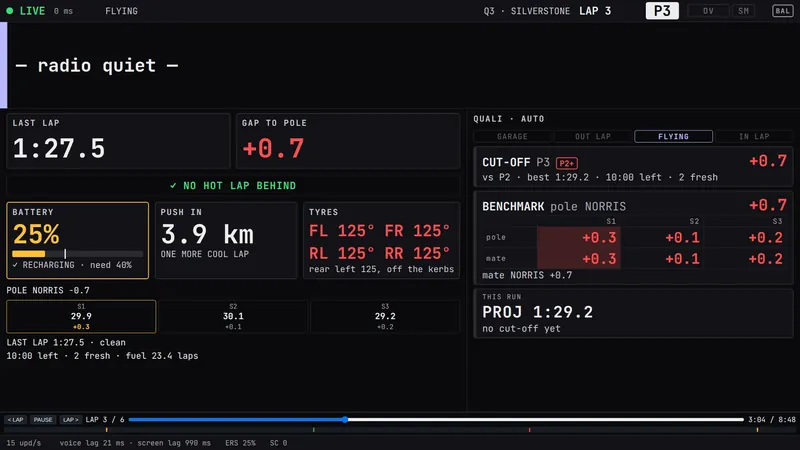
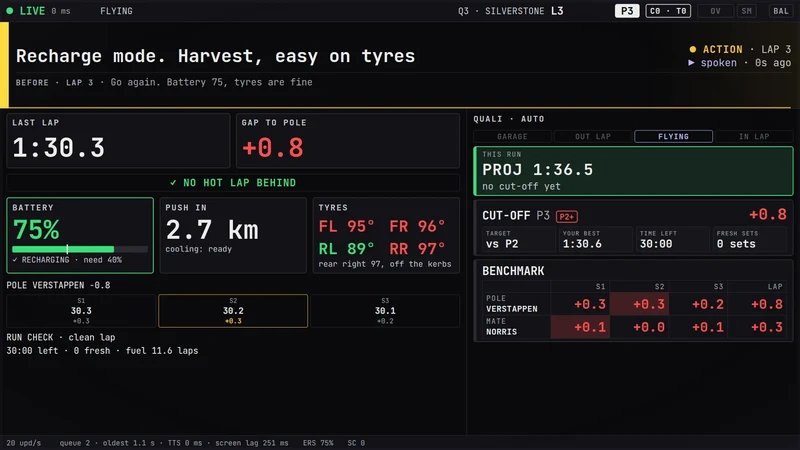
docs: update guide, design notes and gallery for dashboard v2 (#142)
* docs: update guide, design notes and gallery for dashboard v2

* docs: drop v1 pit-exit and final-lap gallery shots

diff --git a/docs/index.html b/docs/index.html
@@ -382,15 +382,13 @@ function overview() {
   ];
   const screens = [
     ["Qualifying", [
-      ["quali-pit-exit", "Pit exit", "The pit board says the track is clear and shows the next run plan."],
       ["quali-out-lap", "Out-lap", "The banner says the tyres are in. The cut-off and pole gaps fill in after the first lap."],
-      ["quali-flying", "Flying lap", "The right column shows the cut-off, the sector gaps to pole and the projected lap."],
+      ["quali-flying", "Flying lap", "The right column shows the cut-off, the projected lap and a benchmark table of sector and lap gaps to pole and teammate."],
       ["quali-cool-lap", "Cool lap", "Last lap time and gap to pole, with battery and tyre temperatures before the next push."]
     ]],
     ["Race", [
       ["race-duel", "Battle", "The battle card lists the cars ahead and behind, each with its state, gap and gap rail."],
-      ["race-box-call", "Box call", "The safety car is active. The right zone shows the box call and pit window."],
-      ["race-final-lap", "Final lap", "The final-lap call names the car behind and the gap."]
+      ["race-box-call", "Box call", "The safety car is active. The right zone shows the box call and pit window."]
     ]],
     ["On the phone", [
       ["phone-race", "Phone race page", "The race page on a phone shows the call, tyres, fuel and strategy, plus the button that arms phone radio."],

diff --git a/docs/15-dashboard-design.md b/docs/15-dashboard-design.md
@@ -89,29 +89,34 @@ reflow between sessions, and empty zones keep their space when values are absent
 Zone rules:
 
 - **A status bar**: place freshness at the far left. Right-align session, lap and
-  position. The OV chip lights when overtake mode is active or earned, and the SM chip
-  lights in straight mode. The DRV chip sits left of the mindset pill and shows the
-  learned driver rating. The compact mindset pill sits at the far right.
+  position. The LIMITS chip follows the position and counts corner cuts and track
+  limits warnings. The OV chip lights when overtake mode is active or earned, and the SM chip
+  lights in straight mode. Verbosity, quiet and radio-silent chips each have an icon. The
+  DRV chip sits left of the mindset pill and shows a wheel icon, the learned driver rating
+  and a globe or track icon for its source. The compact mindset pill sits at the far right.
 - **B banner**: keep it full-width and fixed-height. It holds the current call, one
   evidence line and one dim PREVIOUS line. The main screen has no radio log. With no
   call, the banner says "— radio quiet —".
 - **C tyres**: draw a 2×2 grid as the car from above (FL top-left, RR bottom-right). Each
   corner shows the inner temperature, a trend arrow, wear %, a meter for the 80 to 110 °C
   window and the brake temperature. The arrow compares `inner` (fast EMA) with
-  `tyre_inner_ema_slow`: red ▲ heating, blue ▼ cooling, white ▬ steady. The arrow
-  replaces the status word, which is an owner exception to the colour plus word rule.
+  `tyre_inner_ema_slow`: red ▲ heating, blue ▼ cooling, white ▬ steady. The status
+  word (`COLD`, `OK`, `HOT`) sits beside the arrow.
   The hot-wear corner gets a HOT WEAR tag with the rate, and a locked wheel gets an
-  orange LOCKED border. The BB and DIFF strip sits under the grid.
-- **D fixed tiles**: fuel at the flag, battery with its budget mode, weather, and two
-  LAST LAPS rows. Each row shows the newer lap and time, then lap and sector deltas against
+  orange LOCKED border. The BB and DIFF groups sit under the grid, with no legend line.
+- **D fixed tiles**: fuel at the flag with kg per lap under it, battery with its budget
+  mode plus MJ per lap and laps to the floor, weather, and two LAST LAPS rows. The LAST
+  LAPS header shows the base pace. Each row shows the newer lap and time, then lap and sector deltas against
   the lap before. Keep the last three laps so the oldest is the baseline. Damage stays at the bottom.
   Weather shows an icon and rain chance for now, 10 and 30 min. The crossover slot gets
   a marker, and a line under it gives the target compound and ETA.
 - **E contextual zone**: cards follow a fixed order: Safety, Execution, Reply, Tactical,
   Info. Safety covers SC, VSC, red flag, blue flag and RAIN CROSSOVER when
   `weather_crossover_min` is 5 or less. Tactical holds the battle card and the strategy
-  plans. In qualifying the zone shows the session phase, cut-off, benchmark sectors and
-  the current run.
+  plans. A line under the plans shows PIT EXIT (clean, traffic or the rival and gap) and
+  the undercut and overcut deltas. In qualifying the zone shows the session phase, the
+  cut-off, a BENCHMARK table (POLE and MATE rows with S1, S2, S3 and LAP gaps) and the
+  current run.
 - **Battle card**: one rival as the single card. When `battle.ahead2` or
   `battle.behind2` is set, or places swap, the card lists up to two cars each side
   with a state word, gap and rail around a YOU divider. The direct rival's row word

diff --git a/docs/getting-started.md b/docs/getting-started.md
@@ -55,6 +55,55 @@ pitwall voice say             # you should hear a radio check
 pitwall start                 # ingest + rules + speech + dashboard
 ```
 
+## Open the dashboard
+
+Open `http://localhost:8000` on the second monitor. You should hear "Pit wall online." at start.
+
+| Page | Shows |
+|---|---|
+| `/` | The one-screen dashboard: status bar, current call, tyres, fuel and battery, and the strategy or qualifying cards |
+| `/radio` | The current call and a log of recent calls in large type |
+| `/debrief` | Stored sessions, each with a link to its review |
+
+On another device, open `http://<PC-LAN-IP>:8000` and enter the PIN that Pitwall prints at startup.
+[Phone radio over HTTPS](getting-started.md#phone-radio-over-https) covers phones.
+
+To check the server from a script, request `/api/health`:
+
+```powershell
+irm http://localhost:8000/api/health
+```
+
+The response looks like this (`latency` trimmed):
+
+```json
+{
+  "config_hash": "bf70ccb3",
+  "config_error": null,
+  "latency": {"tts_ms": {"p50": 0.0, "p99": 0.0, "mean": 0.0}},
+  "speaker": "null",
+  "packet_age_ms": 261.8,
+  "live": true
+}
+```
+
+`live` is `true` while telemetry arrives. `config_error` shows a bad `settings.yaml` edit.
+
+The dashboard gets its data over a WebSocket at `/ws`. The server sends a `hello` frame first.
+The client answers `{"type":"hello","v":1}`, and the server then sends a `snapshot` frame
+and a `state` frame 5 times a second (`ui.state_hz`). `v` is the protocol version. It is still 1 with the v2 dashboard.
+
+A session looks like this (payloads trimmed):
+
+```text
+server  {"v": 1, "type": "hello", "seq": 76, "payload": {"protocol": 1, "config_hash": "bf70ccb3", "mindset": "balanced", "verbosity": "normal", "review": true, "audio": false}}
+client  {"type": "hello", "v": 1}
+server  {"v": 1, "type": "snapshot", "seq": 77, "payload": {"live": true, "session_kind": "race", "track": "silverstone", "lap_num": 1, "total_laps": 10, "position": 3, "tyres": {...}, "strategy": {...}, "calls": []}}
+server  {"v": 1, "type": "state", "seq": 78, "payload": {...}}
+```
+
+If the client sends another `v`, the server closes the socket with code 4001.
+
 ## Speech engines
 
 `speech.engine` in `settings.yaml` picks the engine. The default `auto` uses Piper if its voice file exists, else `null`. Windows has no built-in speech fallback. On Mac and Linux, `auto` also picks Piper once the voice is downloaded.
@@ -137,9 +186,6 @@ Add `--log-level` before the command to print more detail. `--log-level info` pr
 The `voices/` directory is git-ignored. Copy `voices/.phrases` to friends who use the same server model and voice settings. Their Pitwall still needs a reachable OmniVoice server. Without one, Pitwall falls back to Piper.
 
 OmniVoice falls back to Piper, then `null`.
-
-Open `http://localhost:8000` on the second monitor (`/radio` for the compact log).
-You should hear "Pit wall online." at start.
 
 ## Phone radio over HTTPS
 
